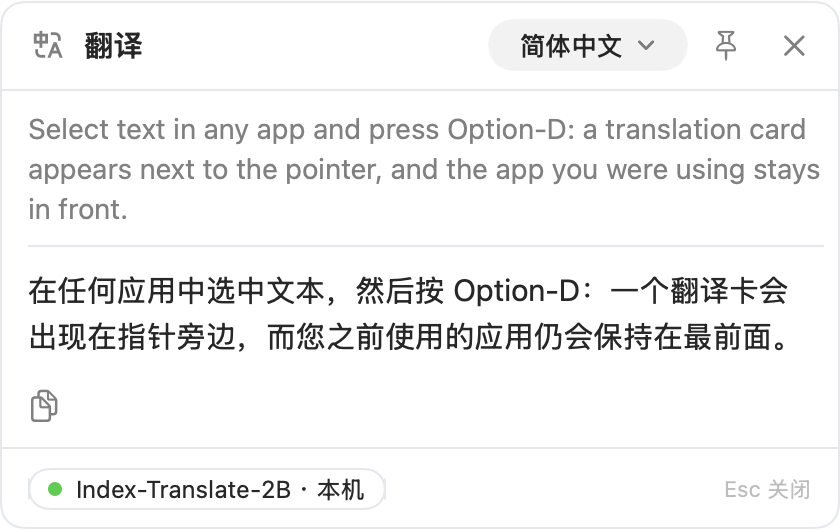
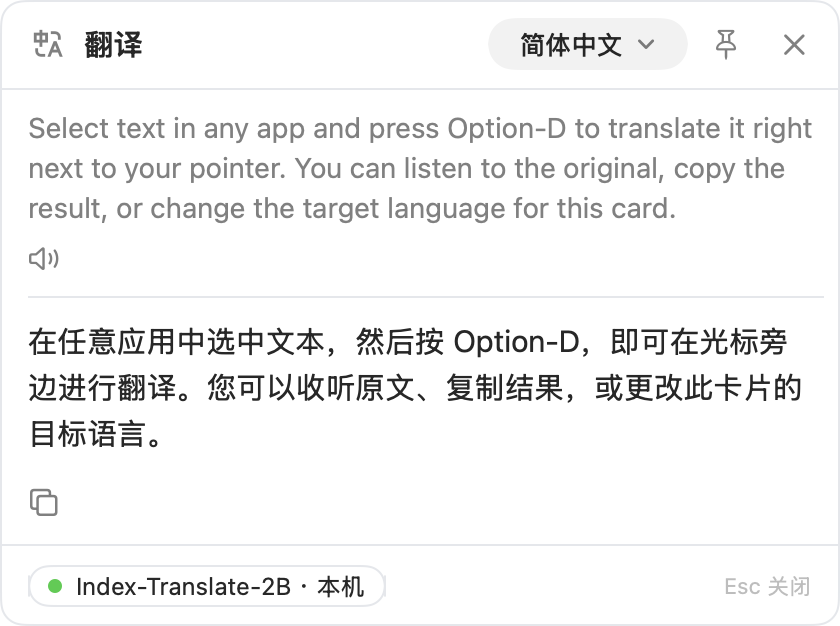
docs: 替换 README 旧版配图，展示 v0.2.4 实际界面

diff --git a/ROADMAP.md b/ROADMAP.md
@@ -70,6 +70,7 @@
 
 ## 已完成
 
+- 2026-11-13 10:10 更新 README 的 7 张界面截图：用 v0.2.4 桌面 App 和插件重新截取翻译窗口、划词卡片、新手引导、翻译服务设置、网页双语翻译、网页划词卡片和工具栏弹窗；README 补充自动翻译提示、临时语言和截图端口说明
 - 2026-11-12 09:08 版本 0.2.4（Build 9）（主人要求）：App、插件、aitd、命令行、core 版本号改成 0.2.4，Build 号 9；包含「进行中」里待主人试用确认的三项（目标语言只临时生效、自动翻译误开和漏开优化、拿不准就问和记住使用习惯）
 - 2026-11-04 18:19 发布 GitHub Release v0.2.3（主人要求）：tag `v0.2.3` 指向 `dc29448`，附 `AI-Translate-0.2.3-macos-arm64.zip`（47 MB，sha256 `3ea04dc6…c4c2`），正式版、标为 Latest；说明写了相比 0.2.0 的修复和改进、从 0.2.0 升级的方法。打包后解压核对 App 为 0.2.3 / 8、签名通过、插件 0.2.3，重新下载附件校验一致
 - 2026-11-04 18:12 版本 0.2.3（Build 8）（主人要求，跳过 0.2.2）：App、插件、aitd、命令行、core 版本号改成 0.2.3，Build 号 8；包含「进行中」里待主人试用确认的四项（选中译文后卡死的修复、原文译文更容易选中、划词卡片朗读原文和新复制图标、插件划词卡片样式统一）
@@ -88,11 +89,11 @@
 - 2026-10-21 21:36 Goal 9 补充 2（主人要求）：8790 被占时 App 依次试后面的端口、上次用的优先，翻译、设置页地址、App 装的 `ait` 都跟着；插件去掉 8791 改回 8790 的旧迁移，连不上时提示核对服务地址；快捷键被占的提示改到标题右边加红色感叹号，放不下才放到下面；Build 号改成 2；`package-release.sh --no-zip` 只组装不打 zip
 - 2026-10-21 21:17 Goal 9 补充（主人要求）：「设置 → 翻译服务」加「Chrome 插件连接」，显示插件要填的本机翻译服务地址，可复制地址和密钥；App 打开或重启翻译服务时发现 8790 被别的程序占着，不再启动自己的 aitd，弹窗说明是哪个程序；新手引导、使用说明、README 同步
 - 2026-10-21 20:48 Goal 9 CP1~CP4：aitd 打成单文件、跟着 App 退出、选中的模型没有时用本机已有的；桌面应用带起 aitd、新手引导、复制密钥、安装命令行工具、从「下载」里打开时提示；插件连不上时提示打开桌面应用；发布包脚本 `scripts/package-release.sh`
-- 2026-10-21 18:12 分享准备：桌面应用去掉 15 处要 Swift 6.1 才认的参数末尾逗号；`aitd-service.sh`、`install-cli.sh` 找 nvm 时也认 `NVM_DIR` 和 Homebrew 装的 nvm；README 安装加「拿到代码」、改正 Xcode 和内存说明、补访问不了 Hugging Face 时用镜像或在 App 里下载
 - 2026-10-21 17:00 第三阶段总验收通过，Goal 8 模型下载与切换完成（[施工清单](goals/20261020-1542-8-model-manager.md)）：主人逐条验证 8 项（菜单栏、翻译窗口、文件翻译、划词、设置各页、三个入口同时用、断网照常翻、重启后自动起来）；验收中按主人要求加了全屏时点菜单栏图标改开翻译窗口、logo 点了打开设置
 
 ## 最近验证
 
+- 2026-11-13 10:10 README 配图：v0.2.4 App 连任务专用本机 aitd 和 Q4_K_M 实测翻译并截图，插件用项目内 Playwright Chromium 截图；逐张目视核对 7 张图片、README 引用均存在且非空，`git diff --check` 通过。没有修改产品代码
 - 2026-11-12 09:08 版本 0.2.4（Build 9）提交前：typecheck 通过，`npm test` 208 条、Swift 单测 104 条全过（e2e 53 条在 08:57 插件改完后全过，之后只改了版本号）
 - 2026-11-12 08:57 自动翻译询问和使用习惯：typecheck 通过，`npm test` 208 条、e2e 53 条全过（新增 5 条：英文短文档不自动翻但询问、点「翻译」后翻这一页；询问两次没理会不再问；点「这个网站总是翻译」记规则；手动开两次设成「总是翻译」、同页反复开关只记一次、可撤回；自动翻译被还原两次设成「从不翻译」）；没在真实网页上复测询问出现的频率；Swift 没改动
 - 2026-11-11 21:55 链接占比只算显示出来的链接：typecheck 通过，`npm test` 208 条、e2e 48 条全过（新增：收起的侧边目录里有 400 个没显示链接的文档页照样自动开启，旧代码上这条失败）；69 个真实网页改前改后对比，开关变化 6 个（5 个文章页开了、PyPI 项目页开了），其余一致
@@ -112,4 +113,3 @@
 - 2026-10-21 20:48 Goal 9 CP2~CP4：发布包在新目录解压后清单 35 个文件 sha256 全对、签名完整、插件文件夹能被 Chromium 加载；全新数据目录、别的端口实测：App 带起 aitd 和模型能翻译，`kill -9` 后 0.4 秒内子进程都退出，正常退出后也都停；已有 aitd 时不另起；空数据目录 → 放模型、设为当前 → 翻译正常；加下载标记后 `spctl` 拒绝；typecheck 通过，`npm test` 206 条、Swift 单测 93 条、e2e 44 条全过
 - 2026-10-21 19:00 Goal 9 CP0 实测：llama.cpp 官方 b11669 包（和 Homebrew 版同一提交）只依赖包内的库，放进模拟 App 能用 GPU，生成 124 tok/s（Homebrew 118）；esbuild 打的 aitd 单文件在没有 Homebrew、nvm 的干净环境里用 App 里的 Node 跑通翻译和缓存；由内到外签名后 `codesign --verify --deep --strict` 通过，zip 46 MB，解压后签名完整；`spctl` 对没公证的 App 一律拒绝，同事第一次打开要「仍要打开」
 - 2026-10-21 18:12 分享前检查：从仓库全新克隆、用全新数据目录模拟同事电脑：`npm ci`、typecheck、`npm test` 203 条、插件和命令行构建、桌面应用从零编译（12 秒）和 87 条单测全过；没下模型时 aitd 和 `ait` 都提示先运行 `download-model.sh`，放好模型后不用重启下一次翻译就自动加载（1.1 秒）。改完逗号后桌面应用编译和 87 条单测再过一遍；两个脚本找 nvm 的逻辑在默认位置和找不到时各测一次
-- 2026-10-21 17:00 第三阶段总验收第 8 项：主人重启电脑后确认 aitd、App 自动起来，`⌥D` 划词能用，模型是上次选的版本

diff --git a/README.md b/README.md
@@ -42,7 +42,7 @@ AI Translate 是一个本地离线翻译工具：用本机运行的 Index-Transl
 
 ## 看看效果
 
-**Chrome 插件：网页双语翻译**（译文显示在原文下方，边滑动边翻译）
+**Chrome 插件：网页双语翻译**（译文显示在原文下方；自动翻译时可在右下角还原）
 
 ![网页双语翻译：译文显示在原文下方](docs/images/plugin-page.png)
 
@@ -112,6 +112,8 @@ AI Translate 是一个本地离线翻译工具：用本机运行的 Index-Transl
 
    ![在设置里复制地址和密钥](docs/images/desktop-service.png)
 
+   图中的 `8890` 是示例端口，实际以 App 显示的地址为准。
+
 5. **填进插件**：点工具栏的「中→A」图标，再点弹窗右上角的齿轮打开插件设置。把密钥粘贴到「密钥」，点「保存」，再点「测试连接」，看到「连接正常」就好了。「本机翻译服务地址」和 App 里显示的一样就不用改
 
 > [!NOTE]
@@ -128,7 +130,7 @@ AI Translate 是一个本地离线翻译工具：用本机运行的 Index-Transl
 - 只想看译文：按 `⌥⇧M`，或者点弹窗里「翻译」左边的小按钮，在「双语对照」和「只看译文」之间切换
 - 某个网站想一直翻译或从不翻译：在弹窗的「当前网站」里选
 
-![插件的工具栏弹窗](docs/images/plugin-popup.png)
+![插件的工具栏弹窗：切换目标语言仅对当前页面临时生效](docs/images/plugin-popup.png)
 
 ### 划词翻译
 
